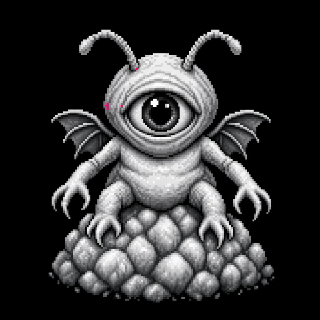
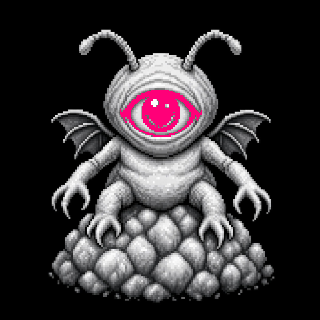
Three eye faults: a blank face, a thrown-away eye, a painted third eye
An eye must never be the colour of the face it sits in. Auric's eye was
white and Auric faces are near-white — a difference of 6.7 out of 255 — so
the eyes were painted on and could not be seen, and a whole being came out
blank-faced. It is violet now and the generator refuses to finish if any eye
comes within 34 of its face. Same class of fault as the geometry matching
the character, and caught the same way.

The cyclops has one eye taking up most of its face, and its middle sits at
0.35 of the picture — one hundredth outside the old head limit. Its entire
eye was thrown away and two specks on its wings kept instead. The zone is
0.42 now, and the cyclops takes an iris like anything else.

And the size cut is 40% of the largest hole, measured rather than guessed.
Three guesses were wrong first: a third lets the six-eyed one's shoulder
openings in as a seventh eye; 45% loses the crowned one's third eye; and
sorting by height is exactly backwards, since on a crowned being the third
eye sits highest and setting the band from it drops both real eyes. Size
separates them — real third eyes are 42% to 60% of a main eye, shoulders are
35%.

The fanged one's third eye is painted rather than open, so nothing that
looks for holes can find it. Beings may now name such eyes by hand in
beings.json as across, down and radius.

Claude-Session: https://claude.ai/code/session_012fPE6Z885VdMpuWvLVtEeg

Changed region(s): [[0.375, 0.2812, 0.625, 0.4375], [0.3125, 0.3125, 0.3438, 0.3438]]

diff --git a/tools/compose.py b/tools/compose.py
@@ -40,7 +40,7 @@ def _dither(field, seed=0):
 
 # ---------------------------------------------------------------- the eyes
 
-def eyes(alpha, thresh=96, head=0.34):
+def eyes(alpha, thresh=96, head=0.42, extra=None):
     """Find a being's eye holes.
 
     An eye hole is transparent, enclosed by ink, and not joined to the
@@ -49,8 +49,11 @@ def eyes(alpha, thresh=96, head=0.34):
     were exactly two of them the "found 2 eyes" check passed while pointing
     at the wrong thing entirely.
 
-    So the search is confined to the head: the top third. Every real eye in
-    the cast sits between 0.13 and 0.24 down; the elbow gaps sit at 0.50.
+    So the search is confined to the head. The limit was the top third, which
+    was one hundredth of the picture too tight: the cyclops has a single eye
+    taking up most of its face, and its middle sits at 0.35 — just outside.
+    Its whole eye was being thrown away and two specks on its wings kept
+    instead.
 
     This will not find an eye that was drawn rather than left open — the
     God's is a full eye with a white and a pupil, and nothing here can see
@@ -86,13 +89,36 @@ def eyes(alpha, thresh=96, head=0.34):
         return mask
 
     # Every eye, not the two biggest. A being with six of them was having two
-    # of them lit and four left dark, which is worse than leaving all six
-    # alone. Anything at least a third the size of the largest hole in the
-    # head counts as one of the set.
+    # lit and four left dark, which is worse than leaving all six alone.
+    #
+    # Size alone cannot sort them. Cut at a third of the largest and the
+    # six-eyed one's shoulder openings come in as a seventh eye; cut at 45%
+    # and the crowned one loses the smaller third eye in its forehead.
+    #
+    # The cut is 40% of the largest hole in the head, and that number was
+    # found by measuring rather than guessing.
+    #
+    # Height cannot sort these. The crowned one's third eye sits 0.184 of the
+    # picture above its main eyes; the six-eyed one's shoulder openings sit
+    # 0.180 above its own. A band tight enough to reject one rejects the
+    # other.
+    #
+    # Size can. Every real third eye in the cast comes to between 42% and 60%
+    # of a main eye. The shoulder openings come to 35%.
     biggest = found[0][0]
     for size, i in found:
-        if size >= biggest * 0.33:
+        if size >= biggest * 0.40:
             mask |= (lab == i)
+
+    # Eyes that were painted rather than left open cannot be found at all —
+    # the fanged one's third eye is a marking, not an opening. Those are
+    # named by hand in beings.json as (across, down, radius), all fractions.
+    if extra:
+        yy, xx = np.mgrid[0:h, 0:w]
+        for ex, ey_, er in extra:
+            cx, cy = ex * w, ey_ * h
+            rr = er * min(h, w)
+            mask |= ((xx - cx) ** 2 + (yy - cy) ** 2) <= rr * rr
     return mask
 
 

diff --git a/tools/ingest.py b/tools/ingest.py
@@ -83,7 +83,7 @@ def cut(src, n, out):
     return err
 
 
-def check_eyes(png, name):
+def check_eyes(png, name, extra=None):
     """Count them, and draw what was found so it can be looked at.
 
     A number on its own is not evidence. The God reported two eyes and was
@@ -92,7 +92,7 @@ def check_eyes(png, name):
     from compose import eyes
     im = Image.open(png).convert("RGBA")
     a = np.asarray(im)
-    m = eyes(a[:,:,3])
+    m = eyes(a[:,:,3], extra=extra)
     _, n = ndimage.label(m)
 
     flat = Image.alpha_composite(Image.new("RGBA", im.size, (0,0,0,255)), im).convert("RGB")
@@ -113,7 +113,9 @@ def ingest(src, name, tier):
     Image.open(src).convert("RGB").save(f"{ROOT}/art/masters/{name}.png")
     out = f"{ROOT}/art/beings/{name}.png"
     err = cut(src, rung, out)
-    n_eyes = check_eyes(out, name)
+    mf_path = f"{ROOT}/art/beings.json"
+    prev_book = json.load(open(mf_path)) if os.path.exists(mf_path) else {}
+    n_eyes = check_eyes(out, name, prev_book.get(name, {}).get("extra_eyes"))
 
     mf = f"{ROOT}/art/beings.json"
     book = json.load(open(mf)) if os.path.exists(mf) else {}
@@ -123,7 +125,9 @@ def ingest(src, name, tier):
                   "eyes": n_eyes, "key_error": round(err, 2),
                   # set by hand for a being whose eye is drawn rather than
                   # left open; the finder cannot see those
-                  "eye_mode": prev.get("eye_mode", "holes")}
+                  "eye_mode": prev.get("eye_mode", "holes"),
+                  # eyes that are painted rather than open, named by hand
+                  "extra_eyes": prev.get("extra_eyes", [])}
     json.dump(dict(sorted(book.items())), open(mf, "w"), indent=2)
 
     flags = []

diff --git a/tools/round.py b/tools/round.py
@@ -194,6 +194,7 @@ def generate(round_no, out_dir):
             # loudness would just make every God a close crop.
             FLAT = {"Spores", "Eyes", "Aura"}
             t = {k: roll(k, 0.0 if k in FLAT else loud, rng) for k in TRAITS}
+            t["ExtraEyes"] = info.get("extra_eyes") or None
             key = (being, wname) + tuple(t[k] for k in TRAITS)
             if key not in seen:
                 if tier in SCARCE:
@@ -314,6 +315,18 @@ def verify(rows, out_dir):
             if k > n / len(pool) + 1:
                 bad.append(f"{tier}: {name} takes {k} of {n} when {len(pool)} "
                            f"drawings share the tier")
+
+    # an eye must never be the colour of the face it sits in
+    for r in rows:
+        if BEINGS[r["being"]].get("eye_mode") == "drawn":
+            continue
+        eye = np.array(BY_NAME[PALETTE_FOR[r["colourway"]]]["eye"], float)
+        face = WEAVES[r["colourway"]]["Face"]
+        face = np.array(face["b"][-1] if isinstance(face, dict) else face[-1], float)
+        gap = float(np.abs(eye - face).mean())
+        if gap < 34:
+            bad.append(f"#{r['id']}: the eye colour is {gap:.0f} from the face "
+                       f"it is painted on — it cannot be seen")
 
     # the figure behind must never be the colour of the being in front
     from render import _aura_palette, _hue_gap

diff --git a/tools/palettes.py b/tools/palettes.py
@@ -60,7 +60,10 @@ PALETTES = [
     _p("Deep",      20, ( 90,140,255), None, (206,226,255), ( 70, 92,220), (255,214,120), (255,160, 60)),
     _p("Verdigris", 14, ( 60,230,190), None, (206,255,240), ( 46,178,150), (255,140,190), (255, 90,150)),
     _p("Bone",       9, (226,222,230), None, (255,255,255), (168,166,178), (230, 60, 60), (255,120, 90)),
-    _p("Aurum",      6, (255,196, 90), None, (255,246,214), (227,186, 92), (255,255,255), (255,230,150)),
+    # The eye was white, and Auric faces are near-white — the eyes were
+    # painted on and could not be seen at all. An eye must never be the
+    # colour of the face it sits in.
+    _p("Aurum",      6, (255,196, 90), None, (255,246,214), (227,186, 92), ( 96, 30,160), (190,110,255)),
     _p("Bloom",      2, (255, 90,200), None, (255,210,245), (220, 70,180), ( 90,255,210), (140,255,240)),
     _p("Eclipse",    1, ( 80, 90,110), None, (255, 60, 60), ( 58, 62, 80), (255, 40, 40), (255,120, 40)),
 ]

diff --git a/tools/render.py b/tools/render.py
@@ -354,7 +354,8 @@ def render(being_png, pal, t, canvas, scale, seed, mode="stencil",
     os.unlink(tmp)
 
     if eye_mode != "drawn":
-        lay = traits.iris(lay, eyes(drawn), t["Eyes"], pal, seed)
+        lay = traits.iris(lay, eyes(drawn, extra=t.get("ExtraEyes")),
+                          t["Eyes"], pal, seed)
     lay = outline(lay, pal["ink"])
 
     # Always dead centre. Shifting and cropping was tried and it read as

diff --git a/art/LADDER.md b/art/LADDER.md
@@ -169,9 +169,42 @@ third eye in the forehead — the crowned pair, the Entity, the winged grey,
 the four-armed grey — and all of them were having it quietly left dark. Then
 a being arrived with six.
 
-It takes every hole in the head at least a third the size of the largest one
-now, which gives two where there are two, three where there is a third eye,
-and six where there are six.
+It takes every hole in the head at least **40%** the size of the largest one
+now: two where there are two, three where there is a third eye, six where
+there are six, and one for the cyclops.
+
+That number was measured, not guessed, and several guesses were wrong first.
+Height cannot sort these — the crowned one's third eye sits 0.184 of the
+picture above its main eyes and the six-eyed one's shoulder openings sit
+0.180 above its own, so a band tight enough to reject one rejects the other.
+Anchoring the band on the topmost hole was exactly backwards: on a crowned
+being the third eye set the top and both real eyes fell outside it. Size
+separates them cleanly — every real third eye in the cast is 42% to 60% of a
+main eye, and the shoulder openings are 35%.
+
+The head zone also had to widen from the top third to 0.42. The cyclops has
+one eye taking up most of its face and its middle sits at 0.35 — one
+hundredth of the picture outside the old limit. Its entire eye was being
+thrown away and two specks on its wings kept instead.
+
+## Eyes that were painted rather than left open
+
+The fanged one's third eye is a marking, not an opening, so nothing that
+looks for holes will ever find it. Those are named by hand in `beings.json`:
+
+```json
+"extra_eyes": [[0.500, 0.283, 0.022]]
+```
+
+across, down, radius — all fractions of the picture.
+
+## An eye must never be the colour of the face it sits in
+
+Auric's eye colour was white and Auric faces are near-white: difference of
+6.7 out of 255. The eyes were being painted on and could not be seen at all,
+and a whole being came out with a blank face. It is violet now, and the
+generator refuses to finish if any eye comes within 34 of its face — the same
+class of fault as the geometry matching the character, caught the same way.
 
 That needed one more rule. The fairy's wings carry big pale patches in the
 top third of the picture, and without it they counted as seven more eyes —
